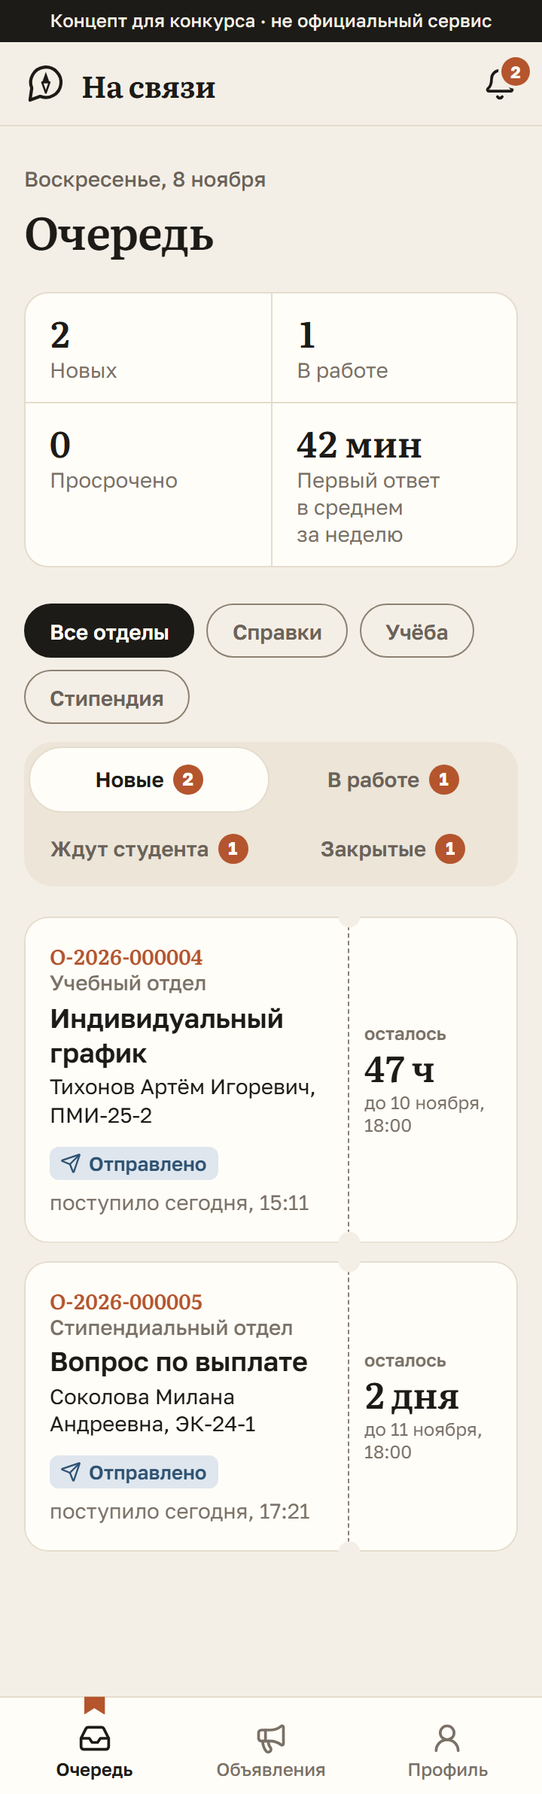
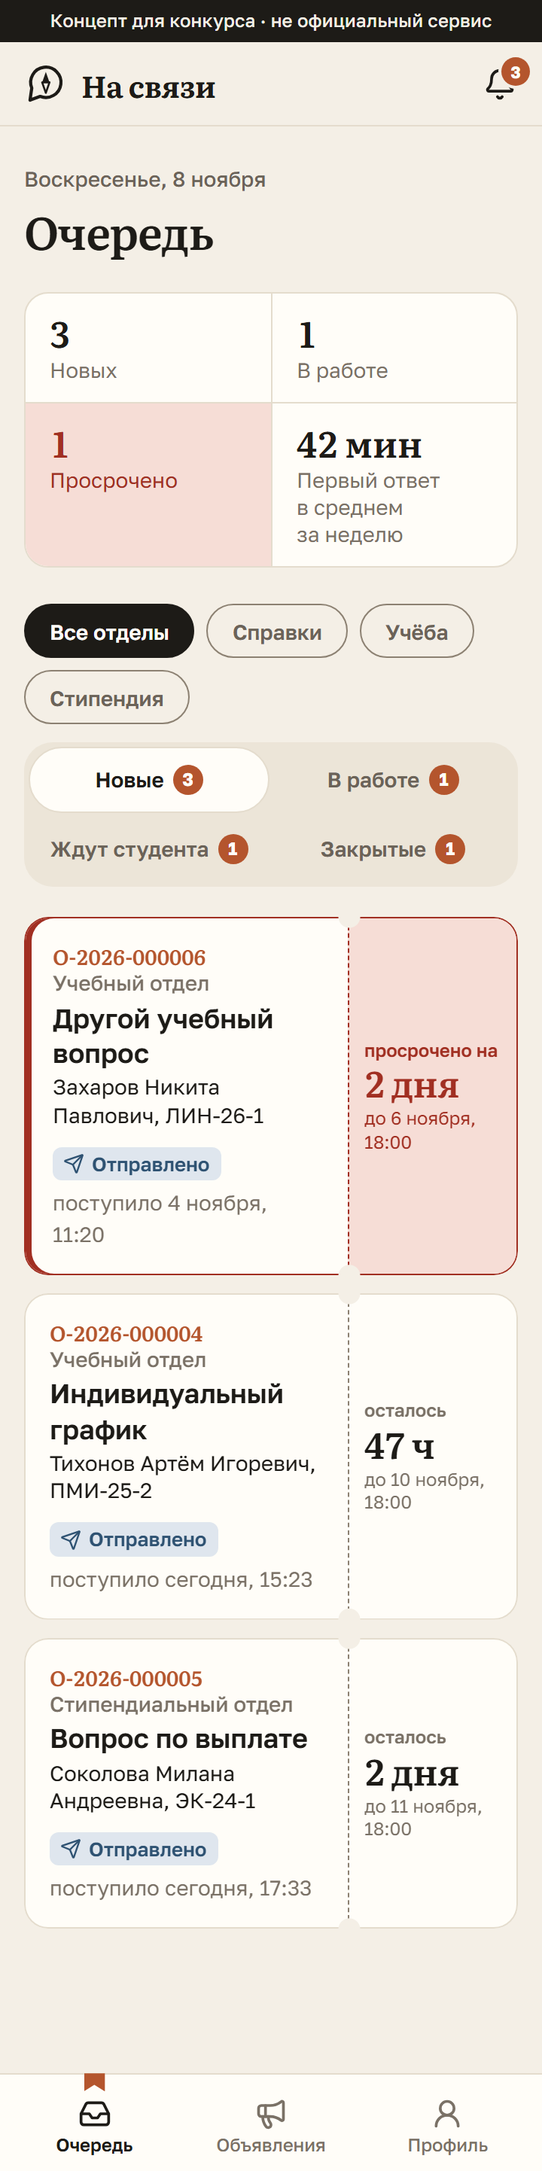
feat(demo): просроченное обращение в очереди сотрудника
Решение контроллера по замечанию 1 к задаче 14: жюри должно видеть красный талон.
- новый вымышленный студент без логина (Захаров Н. П., ЛИН-26-1) и его «Другой учебный
  вопрос»: отправлен за (срок + 1) рабочих дня до сегодня, поэтому срок ответа — 18:00
  предыдущего рабочего дня, и обращение просрочено в любой час любого дня недели;
  событие «Отправлено» и уведомление Ирине
- тесты: ровно одно просроченное во вторник, воскресенье, понедельник 00:30 и пятницу 17:59;
  очередь, сводка, номера и счётчики обновлены под новый демо-мир
- e2e: просрочка берётся из демо-мира, правка БД из теста (e2e/db.ts) больше не нужна;
  скриншоты 04-* обновлены, 04-queue-overdue совпал с 04-queue-new и удалён

diff --git a/e2e/staff.spec.ts b/e2e/staff.spec.ts
@@ -1,5 +1,4 @@
 import { expect, test, type Page } from "@playwright/test";
-import { makeOverdue } from "./db";
 import { hasNoHorizontalScroll, resetDemoWorld, shoot, signIn } from "./demo";
 
 // Кабинет сотрудника (Ирина Белова): очередь, карточка обращения, объявления, профиль — на 360 и 1280 px.
@@ -69,28 +68,36 @@ function bell(page: Page) {
   return page.getByRole("link", { name: /^Уведомления/ });
 }
 
-test("очередь: сводка, вкладки со счётчиками, фильтр по отделу, пустое состояние", async ({ page }) => {
+test("очередь: сводка, вкладки со счётчиками, просрочка первой, фильтр по отделу, пустое состояние", async ({ page }) => {
   await signIn(page, "irina");
   await expect(page.getByRole("heading", { level: 1 })).toHaveText("Очередь");
 
-  // сводка по всем отделам Ирины: два новых, одно в работе, просрочек нет, первый ответ в среднем за 40 мин
-  await expect(figure(page, "Новых")).toHaveText("2");
+  // сводка по всем отделам Ирины: три новых (одно просрочено — так засеян демо-мир), одно в работе,
+  // первый ответ в среднем за 40 мин
+  await expect(figure(page, "Новых")).toHaveText("3");
   await expect(figure(page, "В работе")).toHaveText("1");
-  await expect(figure(page, "Просрочено")).toHaveText("0");
+  await expect(figure(page, "Просрочено")).toHaveText("1");
   await expect(figure(page, "Первый ответ в среднем за неделю")).toHaveText("42 мин");
 
-  // «Новые»: по сроку, ближайший сверху; таймер, студент с группой, отдел, статус
+  // «Новые»: по сроку, ближайший сверху — просроченный, с красным корешком
   await expect(queueTab(page, "Новые")).toHaveAttribute("aria-current", "page");
-  await expect(queueTab(page, "Новые")).toContainText("2");
+  await expect(queueTab(page, "Новые")).toContainText("3");
   await expect(queueTab(page, "Ждут студента")).toContainText("1");
-  await expect(cards(page)).toHaveCount(2);
-  const first = cards(page).first();
-  await expect(first).toContainText("Индивидуальный график");
-  await expect(first).toContainText("Тихонов Артём Игоревич, ПМИ-25-2");
-  await expect(first).toContainText("Учебный отдел");
-  await expect(first).toContainText("Отправлено");
-  await expect(first).toContainText(/осталось \d+ (ч|мин|дн(я|ей))/);
-  await expect(cards(page).nth(1)).toContainText("Вопрос по выплате");
+  await expect(cards(page)).toHaveCount(3);
+  const late = cards(page).first();
+  await expect(late).toContainText("Другой учебный вопрос");
+  await expect(late).toContainText("Захаров Никита Павлович, ЛИН-26-1");
+  await expect(late).toHaveAttribute("data-overdue", "true");
+  await expect(late).toContainText(/просрочено на \d+ (ч|мин|дн(я|ей)|день)/);
+  // остальные — в срок: таймер, студент с группой, отдел, статус
+  const next = cards(page).nth(1);
+  await expect(next).not.toHaveAttribute("data-overdue", "true");
+  await expect(next).toContainText("Индивидуальный график");
+  await expect(next).toContainText("Тихонов Артём Игоревич, ПМИ-25-2");
+  await expect(next).toContainText("Учебный отдел");
+  await expect(next).toContainText("Отправлено");
+  await expect(next).toContainText(/осталось \d+ (ч|мин|дн(я|ей))/);
+  await expect(cards(page).nth(2)).toContainText("Вопрос по выплате");
   await expectFits(page);
   await snap(page, "queue-new");
 
@@ -132,33 +139,21 @@ test("очередь: сводка, вкладки со счётчиками, ф
   // чужой или кривой отдел в адресе → все отделы
   await page.goto("/staff?tab=new&dept=99999");
   await expect(depts.getByRole("link", { name: "Все отделы" })).toHaveAttribute("aria-current", "page");
-  await expect(cards(page)).toHaveCount(2);
+  await expect(cards(page)).toHaveCount(3);
 });
 
-test("просрочка: красный таймер и акцент на карточке; открытая карточка гасит своё уведомление", async ({ page }) => {
-  const number = await makeOverdue("stip_payment_question", 130);
+test("просроченная карточка: красный срок и пояснение; открытая карточка гасит своё уведомление", async ({ page }) => {
   await signIn(page, "irina");
-  await expect(figure(page, "Просрочено")).toHaveText("1");
-  await expect(bell(page)).toHaveAttribute("aria-label", "Уведомления: 2 непрочитанных");
+  await expect(bell(page)).toHaveAttribute("aria-label", "Уведомления: 3 непрочитанных");
 
-  // просроченное — первым: его срок раньше всех
-  const card = cards(page).first();
-  await expect(card).toContainText("Вопрос по выплате");
-  await expect(card).toContainText(number);
-  await expect(card).toHaveAttribute("data-overdue", "true");
-  await expect(card).toContainText("просрочено на 2 ч");
-  await expect(cards(page).nth(1)).not.toHaveAttribute("data-overdue", "true");
-  await expectFits(page);
-  await snap(page, "queue-overdue");
-
-  await card.click();
-  await expect(page.getByRole("heading", { level: 1 })).toHaveText("Вопрос по выплате");
-  await expect(page.getByText(/^просрочено на 2 ч 1\d мин$/)).toBeVisible();
+  await cards(page).filter({ hasText: "Другой учебный вопрос" }).click();
+  await expect(page.getByRole("heading", { level: 1 })).toHaveText("Другой учебный вопрос");
+  await expect(page.getByText(/^просрочено на \d/)).toBeVisible();
   await expect(page.getByText("Срок прошёл — студент тоже видит просрочку.")).toBeVisible();
   // сотрудник видит «Вопрос студента», а не «Твой вопрос»
   await expect(page.getByText("Вопрос студента", { exact: true })).toBeVisible();
   // уведомление о новом обращении прочитано — счётчик колокольчика уменьшился
-  await expect(bell(page)).toHaveAttribute("aria-label", "Уведомления: 1 непрочитанное");
+  await expect(bell(page)).toHaveAttribute("aria-label", "Уведомления: 2 непрочитанных");
   await expectFits(page);
   await snap(page, "card-overdue");
 });

diff --git a/tests/staff-cabinet.test.ts b/tests/staff-cabinet.test.ts
@@ -33,8 +33,8 @@ describe("markReadByHref", () => {
   it("помечает прочитанными только свои непрочитанные уведомления с этой ссылкой", async () => {
     const hrefs = await testSql<{ href: string }[]>`
       select href from notifications where user_id = ${irina.userId} and read_at is null order by id`;
-    expect(hrefs).toHaveLength(2);
-    const [first, second] = hrefs.map((h) => h.href);
+    expect(hrefs).toHaveLength(3);
+    const [first, ...rest] = hrefs.map((h) => h.href);
     expect(first).toMatch(/^\/staff\/appeals\/[0-9a-f-]{36}$/);
 
     // у Алины уведомление с той же ссылкой (как будто) — его трогать нельзя
@@ -42,12 +42,12 @@ describe("markReadByHref", () => {
       values (${alina.userId}, 'appeal_status', 'Чужое', 'Тест', ${first})`;
 
     expect(await markReadByHref(irina, first)).toBe(1);
-    expect(await unreadCount(irina)).toBe(1);
-    // повторно — уже нечего помечать; второе уведомление Ирины не тронуто
+    expect(await unreadCount(irina)).toBe(2);
+    // повторно — уже нечего помечать; остальные уведомления Ирины не тронуты
     expect(await markReadByHref(irina, first)).toBe(0);
-    const [left] = await testSql<{ href: string }[]>`
-      select href from notifications where user_id = ${irina.userId} and read_at is null`;
-    expect(left.href).toBe(second);
+    const left = await testSql<{ href: string }[]>`
+      select href from notifications where user_id = ${irina.userId} and read_at is null order by id`;
+    expect(left.map((l) => l.href)).toEqual(rest);
 
     const [alinas] = await testSql<{ read_at: Date | null }[]>`
       select read_at from notifications where user_id = ${alina.userId} and href = ${first}`;
@@ -58,13 +58,13 @@ describe("markReadByHref", () => {
     const [n] = await testSql<{ href: string }[]>`
       select href from notifications where user_id = ${irina.userId} and read_at is null`;
     expect(await markReadByHref(alina, n.href)).toBe(0);
-    expect(await unreadCount(irina)).toBe(1);
+    expect(await unreadCount(irina)).toBe(2);
   });
 
   it("пустая и чужая ссылка — ничего не меняет", async () => {
     expect(await markReadByHref(irina, "")).toBe(0);
     expect(await markReadByHref(irina, "/staff/appeals/00000000-0000-4000-8000-000000000000")).toBe(0);
-    expect(await unreadCount(irina)).toBe(1);
+    expect(await unreadCount(irina)).toBe(2);
   });
 });
 
@@ -120,7 +120,7 @@ describe("getStaffProfile", () => {
 });
 
 describe("createAnnouncement: сколько студентов получат", () => {
-  it("группа ПМИ-25-1 — одна Алина; всем — все четыре студента демо-мира", async () => {
+  it("группа ПМИ-25-1 — одна Алина; всем — все пять студентов демо-мира", async () => {
     const o = await listAudienceOptions();
     const pmi = o.groups.find((g) => g.name === "ПМИ-25-1")!;
     const forGroup = await createAnnouncement(irina, {
@@ -132,6 +132,6 @@ describe("createAnnouncement: сколько студентов получат",
     const forAll = await createAnnouncement(irina, {
       title: "Для всех студентов", body: "Единое окно в пятницу работает до 15:00.", important: true, audience: {},
     }, TUE);
-    expect(forAll).toEqual({ ok: true, value: { id: expect.any(Number), recipients: 4 } });
+    expect(forAll).toEqual({ ok: true, value: { id: expect.any(Number), recipients: 5 } });
   });
 });

diff --git a/src/server/demo/world.ts b/src/server/demo/world.ts
@@ -34,6 +34,16 @@ function isWeekendKey(key: string): boolean {
   return d === 0 || d === 6;
 }
 
+/** Рабочий день (пн–пт), отстоящий на n рабочих дней назад от `key`; сам `key` не считается. */
+function workdaysBefore(key: string, n: number): string {
+  let k = key;
+  for (let left = n; left > 0;) {
+    k = shiftKey(k, -1);
+    if (!isWeekendKey(k)) left--;
+  }
+  return k;
+}
+
 /** Сам день, если он будний, иначе ближайший следующий будний. */
 function rollToWorkday(key: string): string {
   let k = key;
@@ -124,7 +134,9 @@ export async function buildDemoWorld(db: Db, now: Date, passwords: DemoPasswords
       departments.map((d) => ({ staffId: staffIrina.id, departmentId: d.id })),
     );
 
-    const hashes: Record<string, string | null> = { alina: hashAlina, denis: hashDenis, tikhonov: null, sokolova: null };
+    const hashes: Record<string, string | null> = {
+      alina: hashAlina, denis: hashDenis, tikhonov: null, sokolova: null, zakharov: null,
+    };
     const students: Record<string, { id: number; userId: string }> = {};
     for (const [key, p] of Object.entries(STUDENTS)) {
       const [u] = await tx.insert(s.users).values({
@@ -137,7 +149,7 @@ export async function buildDemoWorld(db: Db, now: Date, passwords: DemoPasswords
       }).returning();
       students[key] = { id: st.id, userId: u.id };
     }
-    const { alina, denis, tikhonov, sokolova } = students;
+    const { alina, denis, tikhonov, sokolova, zakharov } = students;
 
     // ---------- расписание ----------
     await tx.insert(s.scheduleSlots).values(SCHEDULE.map((x) => ({
@@ -297,6 +309,18 @@ export async function buildDemoWorld(db: Db, now: Date, passwords: DemoPasswords
     });
     await event(nStip.id, sokolova.userId, "submitted", nStip.createdAt);
 
+    // Просроченное: отправлено за (срок + 1) рабочих дня до сегодня, поэтому срок ответа —
+    // 18:00 предыдущего рабочего дня, и в любой час любого дня недели оно уже просрочено.
+    const lateType = APPEAL_TYPES.study_other;
+    const nLate = await insertAppeal({
+      studentId: zakharov.id, code: "study_other", status: "submitted",
+      created: mskAt(workdaysBefore(today, lateType.slaDays + 1), "11:20"),
+      fields: {
+        text: "Физкультура у ЛИН-26-1 стоит в среду третьей парой, одновременно с практикой по английскому. Можно ли перейти в другую группу по физкультуре и куда для этого обратиться?",
+      },
+    });
+    await event(nLate.id, zakharov.userId, "submitted", nLate.createdAt);
+
     // ---------- дедлайны ----------
     await tx.insert(s.deadlines).values([
       {
@@ -373,6 +397,8 @@ export async function buildDemoWorld(db: Db, now: Date, passwords: DemoPasswords
       "Индивидуальный график, учебный отдел.", nStudy.createdAt, `/staff/appeals/${nStudy.id}`);
     await notify(uIrina.id, "appeal_new", `Новое обращение ${nStip.number}`,
       "Вопрос по выплате, стипендиальный отдел.", nStip.createdAt, `/staff/appeals/${nStip.id}`);
+    await notify(uIrina.id, "appeal_new", `Новое обращение ${nLate.number}`,
+      "Другой учебный вопрос, учебный отдел.", nLate.createdAt, `/staff/appeals/${nLate.id}`);
 
     // ---------- база ответов ----------
     await tx.insert(s.kbArticles).values(KB_ARTICLES.map((a) => ({

diff --git a/tests/demo/world.test.ts b/tests/demo/world.test.ts
@@ -101,16 +101,47 @@ describe("buildDemoWorld", () => {
     expect(mskDateKey(cert.pickupUntil!)).toBe("2026-11-16"); // today+5 = воскресенье, переносим на пн
   });
 
-  it("в очереди Ирины 2 новых обращения от студентов без логина", async () => {
+  it("в очереди Ирины 3 новых обращения от студентов без логина, каждому — уведомление Ирине", async () => {
     const rows = await testSql<{ type_code: string; login: string | null; status: string }[]>`
       select a.type_code, u.login, a.status from appeals a
       join students st on st.id = a.student_id join users u on u.id = st.user_id
       where a.status = 'submitted' order by a.type_code`;
-    expect(rows).toHaveLength(2);
+    expect(rows.map((r) => r.type_code)).toEqual(["stip_payment_question", "study_individual_plan", "study_other"]);
     expect(rows.every((r) => r.login === null)).toBe(true);
     const depts = await testSql<{ code: string }[]>`
       select d.code from appeals a join departments d on d.id = a.department_id where a.status = 'submitted' order by d.code`;
-    expect(depts.map((x) => x.code)).toEqual(["stipend", "study"]);
+    expect(depts.map((x) => x.code)).toEqual(["stipend", "study", "study"]);
+    const notes = await testSql<{ href: string }[]>`
+      select n.href from notifications n join users u on u.id = n.user_id
+      where u.login = 'irina.belova' and n.kind = 'appeal_new' and n.read_at is null`;
+    const ids = await testSql<{ id: string }[]>`select id from appeals where status = 'submitted'`;
+    expect(notes.map((n) => n.href).sort()).toEqual(ids.map((a) => `/staff/appeals/${a.id}`).sort());
+  });
+
+  it("ровно одно просроченное обращение — в будний день, в выходной и рано утром в понедельник", async () => {
+    const overdueAt = async (at: Date) => {
+      await truncateAll();
+      await buildDemoWorld(db, at, pw);
+      const rows = await testSql<{ type_code: string; last_name: string; sla_due_at: string; created_at: string }[]>`
+        select a.type_code, st.last_name, a.sla_due_at, a.created_at from appeals a
+        join students st on st.id = a.student_id
+        where a.status in ('submitted', 'in_progress') and a.sla_due_at < ${at.toISOString()}::timestamptz`;
+      // этот клиент отдаёт timestamptz строкой
+      return rows.map((r) => ({ ...r, sla_due_at: new Date(r.sla_due_at), created_at: new Date(r.created_at) }));
+    };
+    for (const at of [
+      now,                                   // вторник, 12:00 МСК
+      new Date("2026-11-08T09:00:00Z"),      // воскресенье, 12:00 МСК
+      new Date("2026-11-08T21:30:00Z"),      // понедельник, 00:30 МСК
+      new Date("2026-11-13T14:59:00Z"),      // пятница, 17:59 МСК — за минуту до конца рабочего дня
+    ]) {
+      const rows = await overdueAt(at);
+      expect(rows, at.toISOString()).toHaveLength(1);
+      expect(rows[0]).toMatchObject({ type_code: "study_other", last_name: "Захаров" });
+      // срок — 18:00 предыдущего рабочего дня; отправлено за (срок + 1) рабочих дня
+      expect(rows[0].sla_due_at).toEqual(addWorkingDays(rows[0].created_at, APPEAL_TYPES.study_other.slaDays));
+      expect(mskDateKey(rows[0].sla_due_at) < mskDateKey(at)).toBe(true);
+    }
   });
 
   it("Ирина состоит во всех трёх отделах", async () => {

diff --git a/tests/appeals/staff.test.ts b/tests/appeals/staff.test.ts
@@ -76,7 +76,7 @@ describe("очередь сотрудника", () => {
 
   it("вкладки: новые, в работе, ждут студента, закрытые; сортировка по сроку", async () => {
     expect((await listQueue(irina, "new", undefined, NOW)).map((a) => a.type.code))
-      .toEqual(["study_individual_plan", "stip_payment_question"]);
+      .toEqual(["study_other", "study_individual_plan", "stip_payment_question"]);
     expect((await listQueue(irina, "in_progress", undefined, NOW)).map((a) => a.type.code)).toEqual(["cert_military"]);
     expect((await listQueue(irina, "waiting", undefined, NOW)).map((a) => a.type.code)).toEqual(["study_retake"]);
     expect((await listQueue(irina, "closed", undefined, NOW)).map((a) => a.type.code)).toEqual(["cert_study"]);
@@ -330,11 +330,11 @@ describe("сводка сотрудника", () => {
   beforeAll(loadWorld);
 
   it("новых, в работе, просрочено, среднее время первого ответа за неделю", async () => {
-    // первые ответы демо-мира: 20, 60 и 40 минут → 0,67 ч
-    expect(await getStaffSummary(irina, NOW)).toEqual({ new: 2, inProgress: 1, overdue: 0, avgFirstResponseHoursWeek: 0.7 });
-    // пятница 12:00 МСК: справка Алины (ср 18:00) и индивидуальный график (чт 18:00) просрочены
+    // первые ответы демо-мира: 20, 60 и 40 минут → 0,67 ч; вопрос Захарова просрочен с самого начала
+    expect(await getStaffSummary(irina, NOW)).toEqual({ new: 3, inProgress: 1, overdue: 1, avgFirstResponseHoursWeek: 0.7 });
+    // пятница 12:00 МСК: ещё и справка Алины (ср 18:00), и индивидуальный график (чт 18:00)
     expect(await getStaffSummary(irina, new Date("2026-11-13T09:00:00Z")))
-      .toEqual({ new: 2, inProgress: 1, overdue: 2, avgFirstResponseHoursWeek: 0.7 });
+      .toEqual({ new: 3, inProgress: 1, overdue: 3, avgFirstResponseHoursWeek: 0.7 });
     // через 8 дней первых ответов за неделю нет
     expect((await getStaffSummary(irina, at(8 * DAY))).avgFirstResponseHoursWeek).toBeNull();
   });

diff --git a/tests/appeals/student.test.ts b/tests/appeals/student.test.ts
@@ -65,7 +65,7 @@ afterAll(closeTestDb);
 describe("createAppeal: маршрутизация и срок ответа", () => {
   it("cert_military уходит в отдел docs, sla_due_at = addWorkingDays(now, 1), событие и уведомление сотрудникам", async () => {
     const r = await createAppeal(alina, "cert_military", cert(), NOW);
-    expect(r).toEqual({ ok: true, value: { id: expect.any(String), number: "О-2026-000006" } });
+    expect(r).toEqual({ ok: true, value: { id: expect.any(String), number: "О-2026-000007" } });
     if (!r.ok) return;
 
     const row = await appealRow(r.value.id);
@@ -86,7 +86,7 @@ describe("createAppeal: маршрутизация и срок ответа", ()
 
     const notes = await db.select().from(s.notifications)
       .where(and(eq(s.notifications.userId, irina.userId), eq(s.notifications.href, `/staff/appeals/${r.value.id}`)));
-    expect(notes).toMatchObject([{ kind: "appeal_new", title: "Новое обращение О-2026-000006", createdAt: NOW }]);
+    expect(notes).toMatchObject([{ kind: "appeal_new", title: "Новое обращение О-2026-000007", createdAt: NOW }]);
   });
 
   it("учебный вопрос — в учебный отдел за 2 рабочих дня, стипендия — в стипендиальный за 3", async () => {

diff --git a/src/server/demo/people.ts b/src/server/demo/people.ts
@@ -181,6 +181,14 @@ export const STUDENTS = {
     recordBookNo: "ОР-24-0388", email: "milana.sokolova@orientir-uni.example",
     curatorName: "Власова Екатерина Романовна",
   },
+  // его вопрос в очереди Ирины всегда просрочен: жюри видит, как выглядит просрочка
+  zakharov: {
+    login: null as string | null,
+    lastName: "Захаров", firstName: "Никита", middleName: "Павлович",
+    group: "ЛИН-26-1", studyForm: "очная", funding: "бюджет",
+    recordBookNo: "ОР-26-0042", email: "nikita.zakharov@orientir-uni.example",
+    curatorName: "Гусева Ольга Викторовна",
+  },
 } as const;
 
 export type CheckpointDef = {

diff --git a/tests/student-read.test.ts b/tests/student-read.test.ts
@@ -288,8 +288,8 @@ describe("уведомления", () => {
 
   it("сотрудник видит только свои уведомления", async () => {
     const list = await listNotifications(irina, {});
-    expect(list.map((n) => n.kind)).toEqual(["appeal_new", "appeal_new"]);
-    expect(await unreadCount(irina)).toBe(2);
+    expect(list.map((n) => n.kind)).toEqual(["appeal_new", "appeal_new", "appeal_new"]);
+    expect(await unreadCount(irina)).toBe(3);
   });
 
   it("markRead: свой — true и счётчик падает, повторно — true без смены read_at; нет такого — false", async () => {
